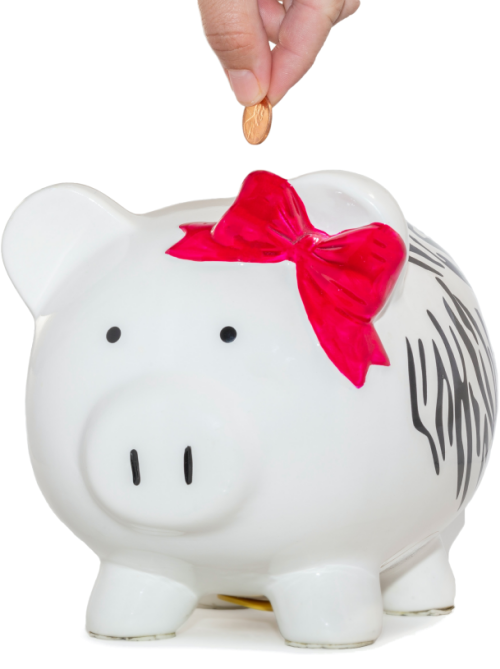
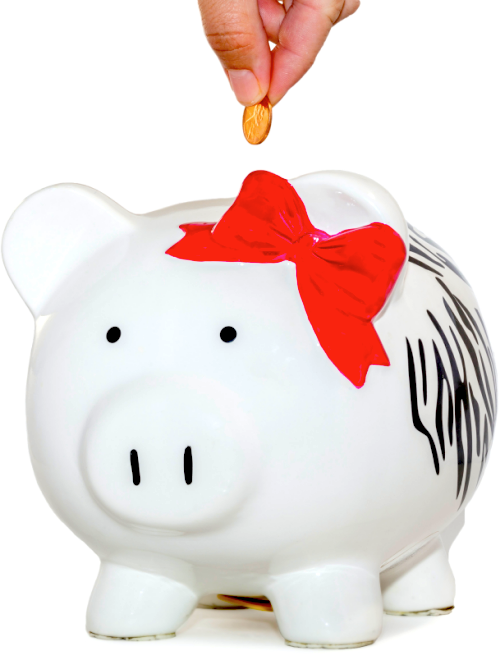
Brigtened pig image. Confirming before deleting everywhere

diff --git a/lib/screens/list_expenditure_screen.dart b/lib/screens/list_expenditure_screen.dart
@@ -83,11 +83,33 @@ class _ListExpenditureScreenState extends State<ListExpenditureScreen> {
                                 IconButton(
                                   icon: Icon(Icons.delete),
                                   onPressed: () {
-                                    setState(() {
-                                      var selectedExpenditure = item;
-                                      expenditureModel
-                                          .delete(selectedExpenditure.id);
-                                    });
+                                    showDialog(
+                                      context: context,
+                                      builder: (BuildContext context) {
+                                        return AlertDialog(
+                                          content: Text('Delete this item?'),
+                                          actions: [
+                                            TextButton(
+                                              onPressed: () =>
+                                                  Navigator.pop(context),
+                                              child: Text('No'),
+                                            ),
+                                            TextButton(
+                                              onPressed: () {
+                                                setState(() {
+                                                  var selectedExpenditure =
+                                                      item;
+                                                  expenditureModel.delete(
+                                                      selectedExpenditure.id);
+                                                });
+                                                Navigator.pop(context);
+                                              },
+                                              child: Text('Yes'),
+                                            ),
+                                          ],
+                                        );
+                                      },
+                                    );
                                   },
                                 )
                               else if (item.belongsToAsset)

diff --git a/lib/screens/list_liability_screen.dart b/lib/screens/list_liability_screen.dart
@@ -78,10 +78,32 @@ class _ListLiabilityState extends State<ListLiabilityScreen> {
                                 Text(item.amount.toString()),
                                 IconButton(
                                   onPressed: () {
-                                    setState(() {
-                                      var selectedAsset = item;
-                                      liabilityModel.delete(selectedAsset);
-                                    });
+                                    showDialog(
+                                      context: context,
+                                      builder: (BuildContext context) {
+                                        return AlertDialog(
+                                          content: Text('Delete this item?'),
+                                          actions: [
+                                            TextButton(
+                                              onPressed: () =>
+                                                  Navigator.pop(context),
+                                              child: Text('No'),
+                                            ),
+                                            TextButton(
+                                              onPressed: () {
+                                                setState(() {
+                                                  var selectedAsset = item;
+                                                  liabilityModel
+                                                      .delete(selectedAsset);
+                                                });
+                                                Navigator.pop(context);
+                                              },
+                                              child: Text('Yes'),
+                                            ),
+                                          ],
+                                        );
+                                      },
+                                    );
                                   },
                                   icon: Icon(Icons.delete),
                                 ),

diff --git a/lib/screens/list_asset_screen.dart b/lib/screens/list_asset_screen.dart
@@ -81,10 +81,32 @@ class _ListAssetState extends State<ListAssetScreen> {
                                 Text(item.investment.amount.toString()),
                                 IconButton(
                                   onPressed: () {
-                                    setState(() {
-                                      var selectedAsset = item;
-                                      assetModel.delete(selectedAsset);
-                                    });
+                                    showDialog(
+                                      context: context,
+                                      builder: (BuildContext context) {
+                                        return AlertDialog(
+                                          content: Text('Delete this item?'),
+                                          actions: [
+                                            TextButton(
+                                              onPressed: () =>
+                                                  Navigator.pop(context),
+                                              child: Text('No'),
+                                            ),
+                                            TextButton(
+                                              onPressed: () {
+                                                setState(() {
+                                                  var selectedAsset = item;
+                                                  assetModel
+                                                      .delete(selectedAsset);
+                                                });
+                                                Navigator.pop(context);
+                                              },
+                                              child: Text('Yes'),
+                                            ),
+                                          ],
+                                        );
+                                      },
+                                    );
                                   },
                                   icon: Icon(Icons.delete),
                                 ),

diff --git a/lib/screens/home_screen.dart b/lib/screens/home_screen.dart
@@ -73,21 +73,21 @@ class _HomeScreenState extends State<HomeScreen> {
                   liabilityModel.items,
                 ]),
                 builder: (context, AsyncSnapshot<List<dynamic>> snapshot) {
-                  if (snapshot.connectionState != ConnectionState.done) {
-                    return Container(
-                      height: MediaQuery.of(context).size.height,
-                      child: Center(child: CircularProgressIndicator()),
-                    );
+                  if (snapshot.hasData) {
+                    List<Income> incomeList = snapshot.data![0];
+                    List<Expenditure> expenditureList = snapshot.data![1];
+                    List<Asset> assetList = snapshot.data![2];
+                    List<Liability> liabilityList = snapshot.data![3];
+                    final isBlankStart = incomeList.isEmpty &&
+                        expenditureList.isEmpty &&
+                        assetList.isEmpty &&
+                        liabilityList.isEmpty;
+                    return isBlankStart ? Welcome() : Dashboard();
                   }
-                  List<Income> incomeList = snapshot.data![0];
-                  List<Expenditure> expenditureList = snapshot.data![1];
-                  List<Asset> assetList = snapshot.data![2];
-                  List<Liability> liabilityList = snapshot.data![3];
-                  final isBlankStart = incomeList.isEmpty &&
-                      expenditureList.isEmpty &&
-                      assetList.isEmpty &&
-                      liabilityList.isEmpty;
-                  return isBlankStart ? Welcome() : Dashboard();
+                  return Container(
+                    height: MediaQuery.of(context).size.height,
+                    child: Center(child: CircularProgressIndicator()),
+                  );
                 },
               ),
             ),

diff --git a/lib/widgets/welcome.dart b/lib/widgets/welcome.dart
@@ -16,7 +16,7 @@ class _WelcomeState extends State<Welcome> {
     return Wrap(
       children: [
         Padding(
-          padding: EdgeInsets.symmetric(horizontal: 30, vertical: 0),
+          padding: EdgeInsets.symmetric(horizontal: 25, vertical: 0),
           child: Column(
             children: [
               Container(
@@ -25,8 +25,14 @@ class _WelcomeState extends State<Welcome> {
               ),
               SizedBox(height: 30),
               Text(
-                'Welcome to Personal Finance Simulator. Please add your major income and expenditure details to get started',
+                'Welcome to Personal Finance Simulator.',
                 textAlign: TextAlign.center,
+                style: TextStyle(fontSize: 16),
+              ),
+              Text(
+                'Please add your major income and expenditure details to get started',
+                textAlign: TextAlign.center,
+                style: TextStyle(fontSize: 16),
               ),
               SizedBox(height: 20),
               ElevatedButton(

diff --git a/lib/widgets/navigation_drawer.dart b/lib/widgets/navigation_drawer.dart
@@ -12,12 +12,10 @@ class NavigationDrawer extends StatelessWidget {
   @override
   Widget build(BuildContext context) {
     return Container(
-      width: MediaQuery.of(context).size.width * 0.6,
       child: Drawer(
         child: ListView(
           children: [
             Container(
-              height: 120,
               child: DrawerHeader(
                 decoration:
                     BoxDecoration(color: Theme.of(context).primaryColor),

diff --git a/lib/helpers/db_helper.dart b/lib/helpers/db_helper.dart
@@ -165,7 +165,6 @@ class DBHelper {
 
   static Future<List<Income>> getIncomes() async {
     final db = await getDatabase();
-
     List<Income> list = [];
     final mapList = await db.query('income');
     mapList.forEach((map) {
